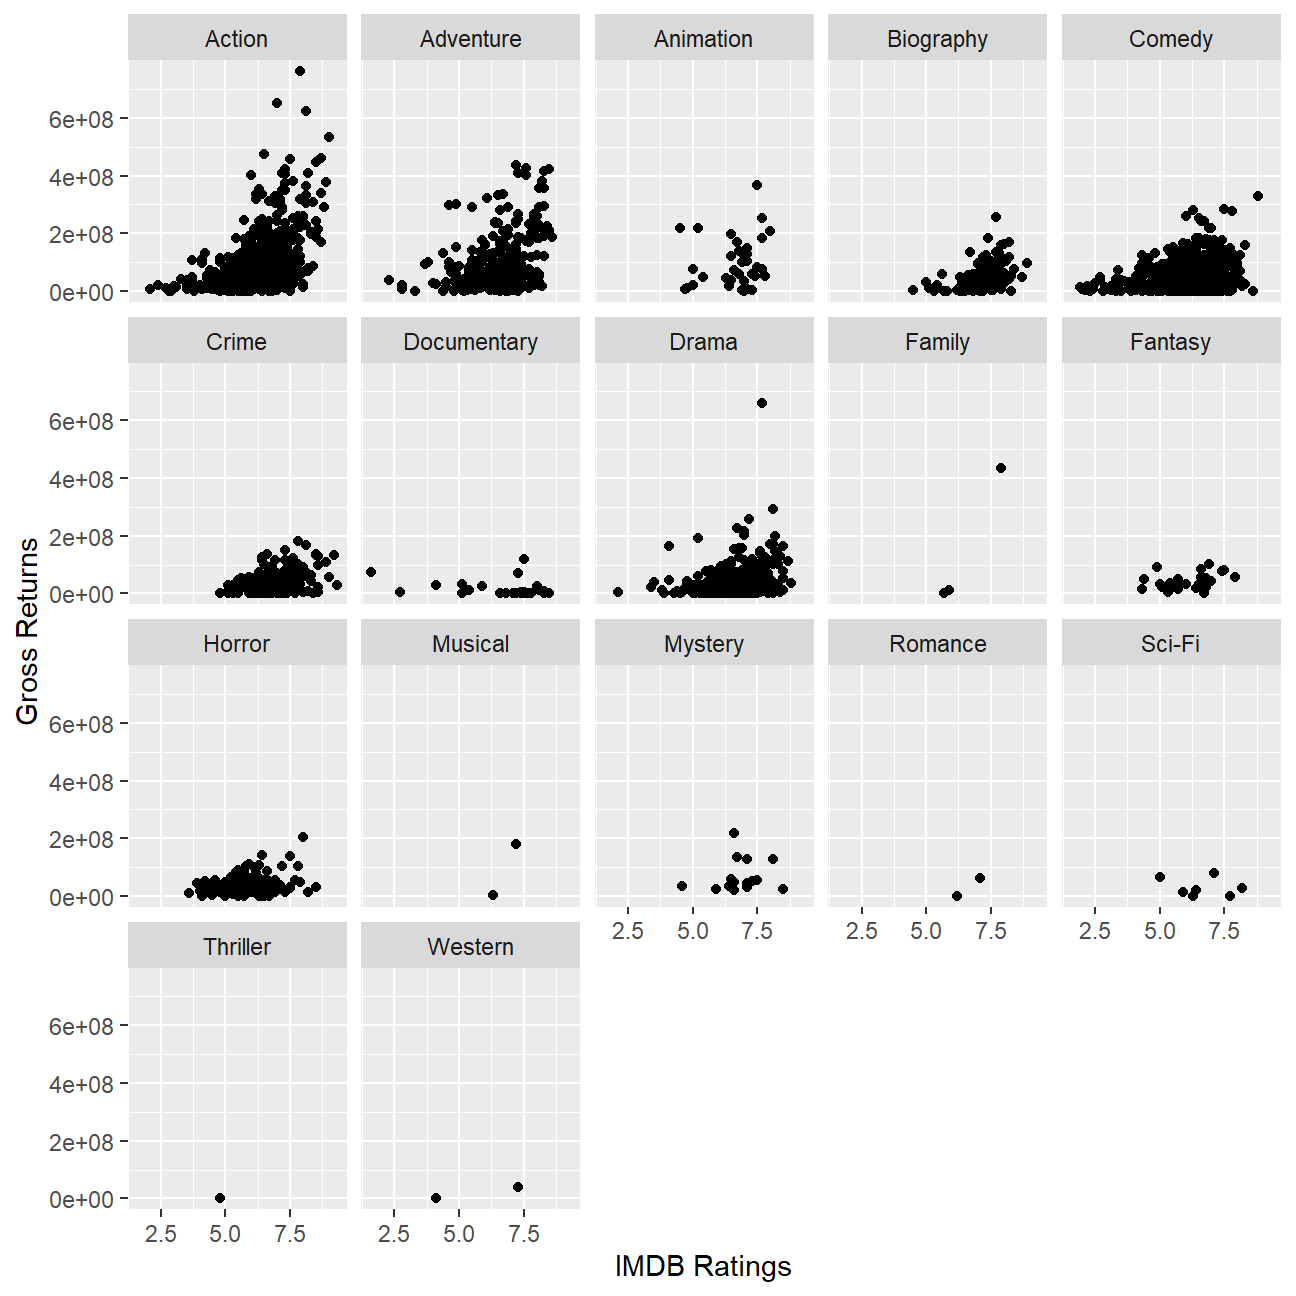
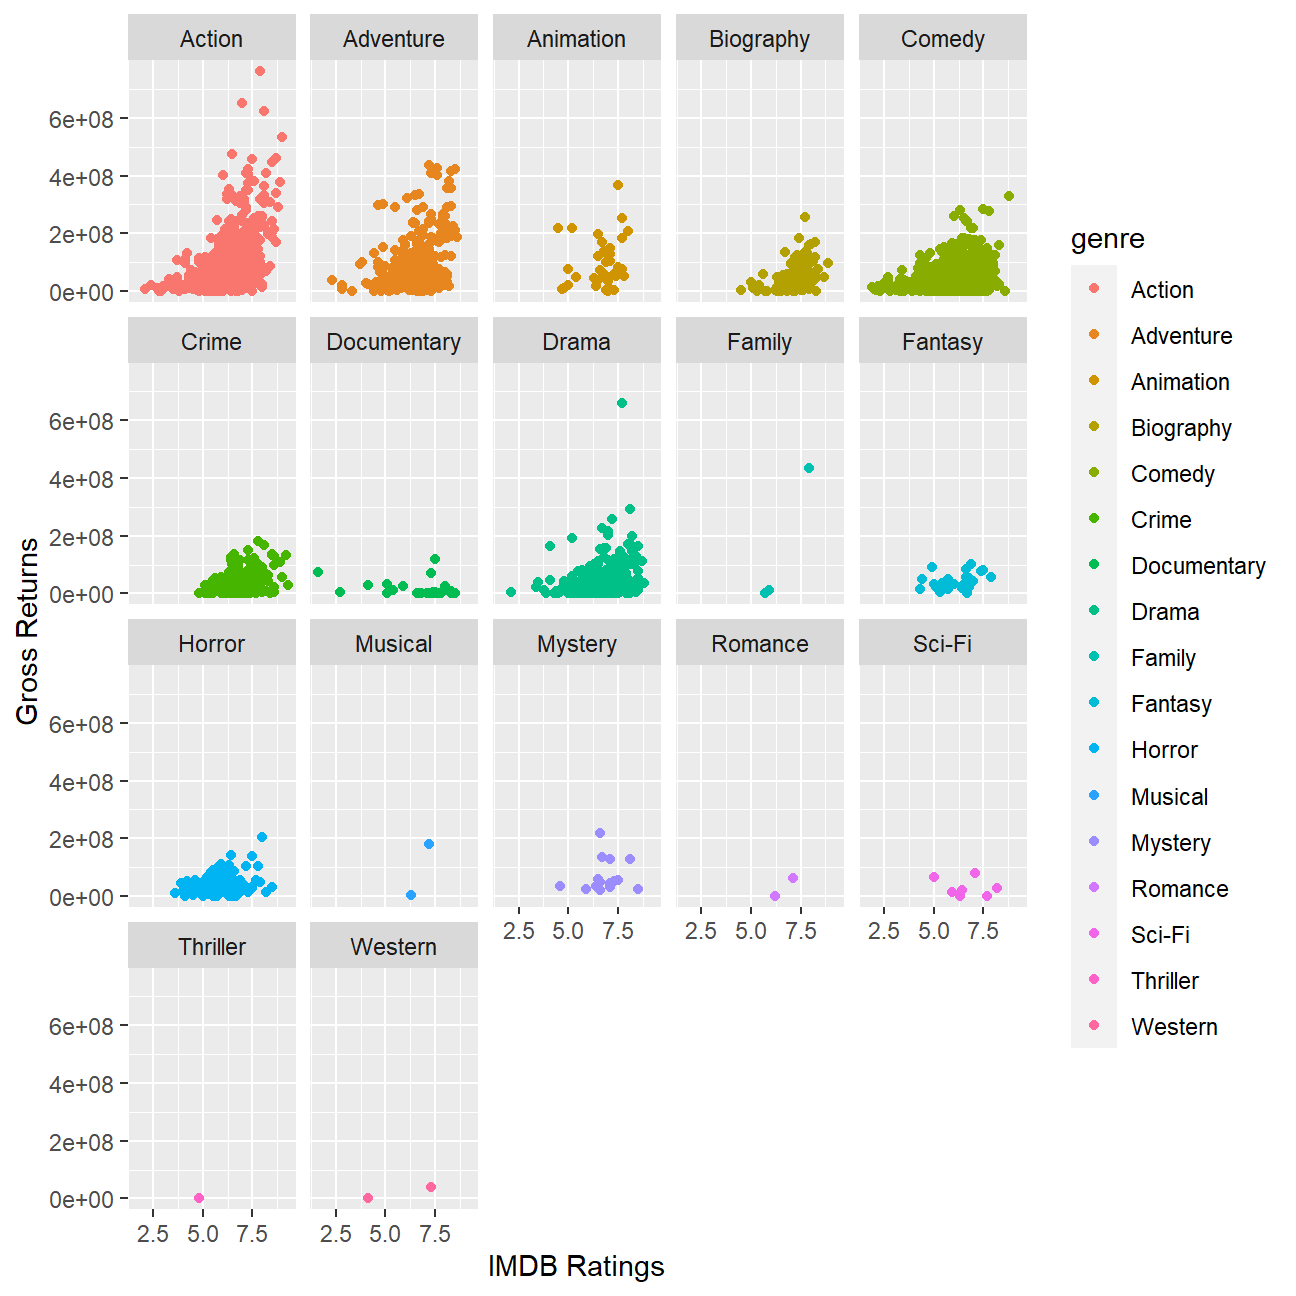
new

diff --git a/public/blogs/blog5/index.html b/public/blogs/blog5/index.html
@@ -226,12 +226,26 @@ summarise_monthly_returns</code></pre>
 ##  9 AAPL   2017-09-29      -0.0602   
 ## 10 AAPL   2017-10-31       0.0968   
 ## # ... with 386 more rows</code></pre>
-<pre class="r"><code>ggplot(summ_monthly_returns_plot, aes(x = monthly_returns, color = symbol))+ geom_density() +labs( x = &quot; Returns&quot;, y = &quot; Density&quot;)+facet_wrap(~symbol)</code></pre>
+<pre class="r"><code>ggplot(summ_monthly_returns_plot, aes(x = monthly_returns, color = symbol, fill=symbol))+ geom_density() +labs( x = &quot; Returns&quot;, y = &quot; Density&quot;)+facet_grid(rows = &quot;symbol&quot;, scales = &quot;free_y&quot;)</code></pre>
 <p><img src="/blogs/blog5_files/figure-html/density_monthly_returns-1.png" width="648" style="display: block; margin: auto;" /></p>
 <div id="distribution-of-returns-and-risk" class="section level2">
 <h2>Distribution of Returns and Risk</h2>
 <p>The spread of returns (a.k.a the standard deviation) is the most widely used form of risk measure when it comes to stock market performance. The narrower the spread the less risk is involved. From the above graph we can see that the SPY is the safest among the chosen instruments, but that is hardly surprising given the fact that an index aggregates the performance of a wide basket of securities.</p>
 <p>One of the most risky assets on the graph above is Tesla Inc., as indicated by the spread of its returns. Keeping this in mind its also worthwhile to note that riskier stocks also carry the potential for a higher reward, as indicated by the considerable density of the Tesla distribution at and above 3%, compared to the almost zero density of the SPY at the same mark.</p>
+<pre class="r"><code>myStocks_returns_annual %&gt;% 
+  group_by(symbol) %&gt;% 
+  mutate(median_return= median(yearly_returns)) %&gt;% 
+  ggplot(aes(x=reorder(symbol, median_return), y=yearly_returns, colour=symbol)) +
+  geom_boxplot()+
+  coord_flip()+
+  labs(x=&quot;Stock&quot;, 
+       y=&quot;Returns&quot;, 
+       title = &quot;Boxplot of Annual Returns&quot;)+
+  scale_y_continuous(labels = scales::percent_format(accuracy = 2))+
+  guides(color=FALSE) +
+  theme_bw()+
+  NULL</code></pre>
+<p><img src="/blogs/blog5_files/figure-html/unnamed-chunk-1-1.png" width="648" style="display: block; margin: auto;" /></p>
 <pre class="r"><code>ggplot(data= summarise_monthly_returns, mapping = aes(x = sd, y = mean, color = symbol, label= symbol)) +
 geom_point() + geom_text_repel() + theme(legend.position=&quot;none&quot;) + labs( x = &quot; Risk &quot;, y = &quot; Return&quot;)</code></pre>
 <p><img src="/blogs/blog5_files/figure-html/risk_return_plot-1.png" width="648" style="display: block; margin: auto;" /></p>
@@ -240,6 +254,31 @@ geom_point() + geom_text_repel() + theme(legend.position=&quot;none&quot;) + lab
 <h2>Risk vs Return Trade Off</h2>
 <p>The risk return relationship is best exemplified by the graph above, which is a scater plot of the expected return vs standard deviation of said returns for specific securities. Ideally an investor would like to get a high return for a considerably low amount of risk, and position himself in the top left quadrant of the graph.</p>
 <p>On the other hand, every investor would avoid the lower right quadrant, which equals low expected returns and high risk. There are also those securities which although bearing a similar amount of risk, have different expected returns. For example - Goldman Sachs Inc. and Apple have roughly the same risk profile, and yet Apple’s expected return is much higher than that of GS.</p>
+<pre class="r"><code>ggplot(myStocks_returns_annual, aes(x=year(date), y=yearly_returns, fill=symbol)) +
+  geom_col(position = &quot;dodge&quot;)+
+  labs(x=&quot;Year&quot;, y=&quot;Returns&quot;, title = &quot;Annual Returns&quot;)+
+  scale_y_continuous(labels = scales::percent)+
+  guides(fill=guide_legend(title=NULL))+
+  theme_bw()+
+  NULL</code></pre>
+<p><img src="/blogs/blog5_files/figure-html/unnamed-chunk-2-1.png" width="648" style="display: block; margin: auto;" /></p>
+<pre class="r"><code>myStocks_returns_monthly %&gt;% 
+  tq_performance(Ra = monthly_returns, #the name of the variable containing the returns of the asset
+                 Rb = NULL, 
+                 performance_fun = SharpeRatio) </code></pre>
+<pre><code>## # A tibble: 9 x 4
+## # Groups:   symbol [9]
+##   symbol `ESSharpe(Rf=0%,p=95%~ `StdDevSharpe(Rf=0%,p=95~ `VaRSharpe(Rf=0%,p=95~
+##   &lt;chr&gt;                   &lt;dbl&gt;                     &lt;dbl&gt;                  &lt;dbl&gt;
+## 1 AAPL                  0.179                      0.318                 0.231  
+## 2 JPM                   0.0708                     0.173                 0.106  
+## 3 HAL                   0.00520                    0.0161                0.00995
+## 4 GS                    0.0364                     0.0748                0.0485 
+## 5 KKR                   0.0911                     0.184                 0.125  
+## 6 TSLA                  0.211                      0.301                 0.349  
+## 7 ING                   0.0224                     0.0622                0.0362 
+## 8 CS                   -0.0179                    -0.0422               -0.0231 
+## 9 SPY                   0.128                      0.293                 0.204</code></pre>
 </div>
 </div>
 

diff --git a/content/blogs/blog5.html b/content/blogs/blog5.html
@@ -154,12 +154,26 @@ summarise_monthly_returns</code></pre>
 ##  9 AAPL   2017-09-29      -0.0602   
 ## 10 AAPL   2017-10-31       0.0968   
 ## # ... with 386 more rows</code></pre>
-<pre class="r"><code>ggplot(summ_monthly_returns_plot, aes(x = monthly_returns, color = symbol))+ geom_density() +labs( x = &quot; Returns&quot;, y = &quot; Density&quot;)+facet_wrap(~symbol)</code></pre>
+<pre class="r"><code>ggplot(summ_monthly_returns_plot, aes(x = monthly_returns, color = symbol, fill=symbol))+ geom_density() +labs( x = &quot; Returns&quot;, y = &quot; Density&quot;)+facet_grid(rows = &quot;symbol&quot;, scales = &quot;free_y&quot;)</code></pre>
 <p><img src="/blogs/blog5_files/figure-html/density_monthly_returns-1.png" width="648" style="display: block; margin: auto;" /></p>
 <div id="distribution-of-returns-and-risk" class="section level2">
 <h2>Distribution of Returns and Risk</h2>
 <p>The spread of returns (a.k.a the standard deviation) is the most widely used form of risk measure when it comes to stock market performance. The narrower the spread the less risk is involved. From the above graph we can see that the SPY is the safest among the chosen instruments, but that is hardly surprising given the fact that an index aggregates the performance of a wide basket of securities.</p>
 <p>One of the most risky assets on the graph above is Tesla Inc., as indicated by the spread of its returns. Keeping this in mind its also worthwhile to note that riskier stocks also carry the potential for a higher reward, as indicated by the considerable density of the Tesla distribution at and above 3%, compared to the almost zero density of the SPY at the same mark.</p>
+<pre class="r"><code>myStocks_returns_annual %&gt;% 
+  group_by(symbol) %&gt;% 
+  mutate(median_return= median(yearly_returns)) %&gt;% 
+  ggplot(aes(x=reorder(symbol, median_return), y=yearly_returns, colour=symbol)) +
+  geom_boxplot()+
+  coord_flip()+
+  labs(x=&quot;Stock&quot;, 
+       y=&quot;Returns&quot;, 
+       title = &quot;Boxplot of Annual Returns&quot;)+
+  scale_y_continuous(labels = scales::percent_format(accuracy = 2))+
+  guides(color=FALSE) +
+  theme_bw()+
+  NULL</code></pre>
+<p><img src="/blogs/blog5_files/figure-html/unnamed-chunk-1-1.png" width="648" style="display: block; margin: auto;" /></p>
 <pre class="r"><code>ggplot(data= summarise_monthly_returns, mapping = aes(x = sd, y = mean, color = symbol, label= symbol)) +
 geom_point() + geom_text_repel() + theme(legend.position=&quot;none&quot;) + labs( x = &quot; Risk &quot;, y = &quot; Return&quot;)</code></pre>
 <p><img src="/blogs/blog5_files/figure-html/risk_return_plot-1.png" width="648" style="display: block; margin: auto;" /></p>
@@ -168,5 +182,30 @@ geom_point() + geom_text_repel() + theme(legend.position=&quot;none&quot;) + lab
 <h2>Risk vs Return Trade Off</h2>
 <p>The risk return relationship is best exemplified by the graph above, which is a scater plot of the expected return vs standard deviation of said returns for specific securities. Ideally an investor would like to get a high return for a considerably low amount of risk, and position himself in the top left quadrant of the graph.</p>
 <p>On the other hand, every investor would avoid the lower right quadrant, which equals low expected returns and high risk. There are also those securities which although bearing a similar amount of risk, have different expected returns. For example - Goldman Sachs Inc. and Apple have roughly the same risk profile, and yet Apple’s expected return is much higher than that of GS.</p>
+<pre class="r"><code>ggplot(myStocks_returns_annual, aes(x=year(date), y=yearly_returns, fill=symbol)) +
+  geom_col(position = &quot;dodge&quot;)+
+  labs(x=&quot;Year&quot;, y=&quot;Returns&quot;, title = &quot;Annual Returns&quot;)+
+  scale_y_continuous(labels = scales::percent)+
+  guides(fill=guide_legend(title=NULL))+
+  theme_bw()+
+  NULL</code></pre>
+<p><img src="/blogs/blog5_files/figure-html/unnamed-chunk-2-1.png" width="648" style="display: block; margin: auto;" /></p>
+<pre class="r"><code>myStocks_returns_monthly %&gt;% 
+  tq_performance(Ra = monthly_returns, #the name of the variable containing the returns of the asset
+                 Rb = NULL, 
+                 performance_fun = SharpeRatio) </code></pre>
+<pre><code>## # A tibble: 9 x 4
+## # Groups:   symbol [9]
+##   symbol `ESSharpe(Rf=0%,p=95%~ `StdDevSharpe(Rf=0%,p=95~ `VaRSharpe(Rf=0%,p=95~
+##   &lt;chr&gt;                   &lt;dbl&gt;                     &lt;dbl&gt;                  &lt;dbl&gt;
+## 1 AAPL                  0.179                      0.318                 0.231  
+## 2 JPM                   0.0708                     0.173                 0.106  
+## 3 HAL                   0.00520                    0.0161                0.00995
+## 4 GS                    0.0364                     0.0748                0.0485 
+## 5 KKR                   0.0911                     0.184                 0.125  
+## 6 TSLA                  0.211                      0.301                 0.349  
+## 7 ING                   0.0224                     0.0622                0.0362 
+## 8 CS                   -0.0179                    -0.0422               -0.0231 
+## 9 SPY                   0.128                      0.293                 0.204</code></pre>
 </div>
 </div>

diff --git a/content/blogs/blog6.html b/content/blogs/blog6.html
@@ -327,7 +327,7 @@ get</code></pre>
 <pre><code>## function (x, pos = -1L, envir = as.environment(pos), mode = &quot;any&quot;, 
 ##     inherits = TRUE) 
 ## .Internal(get(x, envir, mode, inherits))
-## &lt;bytecode: 0x0000000007c77170&gt;
+## &lt;bytecode: 0x0000000007c77248&gt;
 ## &lt;environment: namespace:base&gt;</code></pre>
 <pre class="r"><code>print(return_on_budget)</code></pre>
 <pre><code>##        Group.1    gross   budget   return
@@ -1781,13 +1781,13 @@ print(Genre_ratings)</code></pre>
 <p>At first glance when we compare budget to gross at the box office we see that there is a positive relationship, where movies with higher budgets tend to do better than those with low ones. However when we facet according to genre we observe that this relationship is far more pronounced in the action and adventure genres than in others. This is best explained by the fact that making an entertaining action movie costs more than making a good biography - a.k.a Michael Bay derives more marginal revenue for every marginal dollar spent on more explosives, than someone making a biography might.</p>
 <pre class="r"><code>ggplot(movies, aes(x=budget, y=gross, color = genre)) + geom_point() </code></pre>
 <p><img src="/blogs/blog6_files/figure-html/gross_on_budget-1.png" width="648" style="display: block; margin: auto;" /></p>
-<pre class="r"><code>ggplot(movies, aes(x=budget, y=gross)) + geom_point() + facet_wrap(~genre)</code></pre>
+<pre class="r"><code>ggplot(movies, aes(x=budget, y=gross, color = genre)) + geom_point() + facet_wrap(~genre)</code></pre>
 <p><img src="/blogs/blog6_files/figure-html/gross_on_budget-2.png" width="648" style="display: block; margin: auto;" /></p>
 </div>
 <div id="ratings-vs.-gross-return" class="section level2">
 <h2>Ratings vs. Gross Return</h2>
 <p>We can see a positive, but not very clear relationship when it comes to ratings vs gross return at the box office. There are movies with high ratings making less than similar movies with lower ratings. This would lead us to conclude that ratings are also not the primary determinant of gross return on a movie.</p>
-<pre class="r"><code>ggplot(movies, aes(x=rating, y=gross)) + geom_point() + facet_wrap(~genre) + labs( x = &quot;IMDB Ratings&quot;, y = &quot; Gross Returns&quot;)</code></pre>
+<pre class="r"><code>ggplot(movies, aes(x=rating, y=gross, color = genre)) + geom_point() + facet_wrap(~genre) + labs( x = &quot;IMDB Ratings&quot;, y = &quot; Gross Returns&quot;)</code></pre>
 <p><img src="/blogs/blog6_files/figure-html/gross_on_rating-1.png" width="648" style="display: block; margin: auto;" /></p>
 <pre class="r"><code># In order to reproduce the graph shown above we begin by calculating the confidence intervals for the mean ratings of Burton and Spielberg
 

diff --git a/public/blogs/blog6/index.html b/public/blogs/blog6/index.html
@@ -399,7 +399,7 @@ get</code></pre>
 <pre><code>## function (x, pos = -1L, envir = as.environment(pos), mode = &quot;any&quot;, 
 ##     inherits = TRUE) 
 ## .Internal(get(x, envir, mode, inherits))
-## &lt;bytecode: 0x0000000007c77170&gt;
+## &lt;bytecode: 0x0000000007c77248&gt;
 ## &lt;environment: namespace:base&gt;</code></pre>
 <pre class="r"><code>print(return_on_budget)</code></pre>
 <pre><code>##        Group.1    gross   budget   return
@@ -1853,13 +1853,13 @@ print(Genre_ratings)</code></pre>
 <p>At first glance when we compare budget to gross at the box office we see that there is a positive relationship, where movies with higher budgets tend to do better than those with low ones. However when we facet according to genre we observe that this relationship is far more pronounced in the action and adventure genres than in others. This is best explained by the fact that making an entertaining action movie costs more than making a good biography - a.k.a Michael Bay derives more marginal revenue for every marginal dollar spent on more explosives, than someone making a biography might.</p>
 <pre class="r"><code>ggplot(movies, aes(x=budget, y=gross, color = genre)) + geom_point() </code></pre>
 <p><img src="/blogs/blog6_files/figure-html/gross_on_budget-1.png" width="648" style="display: block; margin: auto;" /></p>
-<pre class="r"><code>ggplot(movies, aes(x=budget, y=gross)) + geom_point() + facet_wrap(~genre)</code></pre>
+<pre class="r"><code>ggplot(movies, aes(x=budget, y=gross, color = genre)) + geom_point() + facet_wrap(~genre)</code></pre>
 <p><img src="/blogs/blog6_files/figure-html/gross_on_budget-2.png" width="648" style="display: block; margin: auto;" /></p>
 </div>
 <div id="ratings-vs.-gross-return" class="section level2">
 <h2>Ratings vs. Gross Return</h2>
 <p>We can see a positive, but not very clear relationship when it comes to ratings vs gross return at the box office. There are movies with high ratings making less than similar movies with lower ratings. This would lead us to conclude that ratings are also not the primary determinant of gross return on a movie.</p>
-<pre class="r"><code>ggplot(movies, aes(x=rating, y=gross)) + geom_point() + facet_wrap(~genre) + labs( x = &quot;IMDB Ratings&quot;, y = &quot; Gross Returns&quot;)</code></pre>
+<pre class="r"><code>ggplot(movies, aes(x=rating, y=gross, color = genre)) + geom_point() + facet_wrap(~genre) + labs( x = &quot;IMDB Ratings&quot;, y = &quot; Gross Returns&quot;)</code></pre>
 <p><img src="/blogs/blog6_files/figure-html/gross_on_rating-1.png" width="648" style="display: block; margin: auto;" /></p>
 <pre class="r"><code># In order to reproduce the graph shown above we begin by calculating the confidence intervals for the mean ratings of Burton and Spielberg
 
